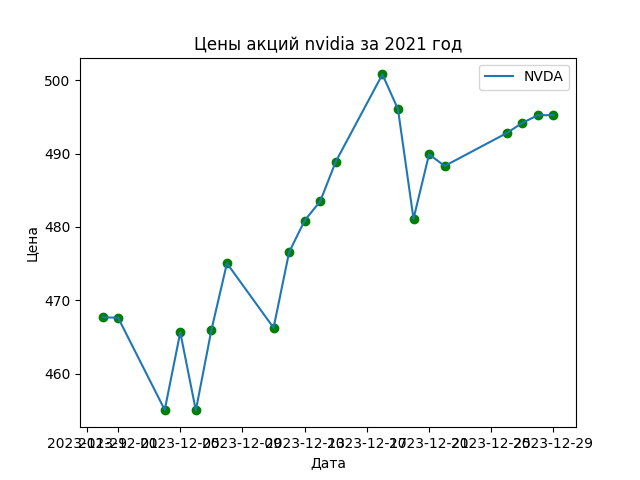
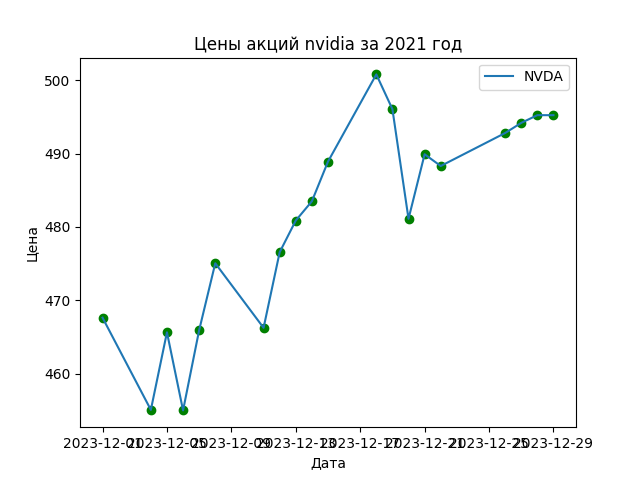
добавил распечатку графика revenue

diff --git a/google_scraper.py b/google_scraper.py
@@ -10,6 +10,8 @@ import pandas as pd
 import matplotlib.pyplot as plt
 import yfinance as yf
 from datetime import datetime, timedelta
+from yahoofinancials import YahooFinancials
+from yahoo_fin import stock_info as si
 
 google_news = GNews()
 DAYS = 30
@@ -17,23 +19,60 @@ DAYS = 30
 def google_scraper():
     worksheet = get_sheet().get_worksheet(0)
     nltk.download("vader_lexicon")
-    articles = news_search()
-    sentiment_analysis_of_articles = get_sentiment_analysis_of_articles(articles)
-    save_sentiment_analysis(worksheet, sentiment_analysis_of_articles)
-    #sentiment_analysis_of_articles = read_sentiment_analysis(worksheet)
-    sentiment_analiisys_per_day = sentiment_analysis_of_articles.groupby('published date')['compound'].mean().reset_index()
+    #articles = news_search()
+    #sentiment_analysis_of_articles = get_sentiment_analysis_of_articles(articles)
+    #save_sentiment_analysis(worksheet, sentiment_analysis_of_articles)
+    sentiment_analysis_of_articles = read_sentiment_analysis(worksheet)
+    sentiment_analiisys_per_day = sentiment_analysis_of_articles.groupby('published date')['compound'].mean().reset_index().sort_values('published date')
     print(sentiment_analiisys_per_day)
     print_stock(sentiment_analiisys_per_day)
+    print_revenue(datetime.now().date() - timedelta(days=365), datetime.now().date())  
 
 def read_sentiment_analysis(worksheet):
     sentiment_analysis = worksheet.get_all_values()
+    # Преобразование списка списков в датафрейм, где первый список - заголовки столбцов
     sentiment_analysis = pd.DataFrame(sentiment_analysis[1:], columns=sentiment_analysis[0])
-    
+    # Преобразование столбца 'published date' в datetime
+    sentiment_analysis['published date'] = pd.to_datetime(sentiment_analysis['published date'])
     # Преобразование данных в столбце 'compound' в числа
     sentiment_analysis['compound'] = pd.to_numeric(sentiment_analysis['compound'].str.replace(',', '.'), errors='coerce')
     
     return sentiment_analysis
 
+def print_revenue(start_date, end_date):
+    ticker = 'NVDA'
+    yahoo_financials = YahooFinancials(ticker)
+
+    income_statement = yahoo_financials.get_financial_stmts('quarterly', 'income')
+    reports = income_statement['incomeStatementHistoryQuarterly'][ticker]
+        
+    analysts_info = si.get_analysts_info(ticker)
+    earnings_estimate = analysts_info['Revenue Estimate']
+    print(earnings_estimate)
+
+
+    dates = []
+    revenues = []
+    for report in reports:
+        for date_str in report:
+            date = datetime.strptime(date_str, '%Y-%m-%d').date()
+            if start_date <= date <= end_date:
+                if 'operatingRevenue' in report[date_str]:  
+                    dates.append(date)
+                    # преобразуем выручку в миллиарды
+                    revenue_billion = report[date_str]['operatingRevenue'] / 1_000_000_000
+                    revenues.append(revenue_billion)
+    print(dates)
+    print([f'{revenue:.2f}B' for revenue in revenues])
+    #очистить значения на графике
+    plt.cla()
+    plt.bar(dates, revenues, color='green', width=20)
+    plt.xticks(dates)  
+    plt.xlabel('Date')
+    plt.ylabel('Revenue (in billions)')
+    plt.title('Quarterly Revenue')
+    plt.savefig('revenue.png')
+        
 def print_stock(sentiment_data):
     # Задаем начальную и конечную дату
     end = datetime.now().date()
@@ -122,10 +161,9 @@ def get_sentiment_analysis_of_articles(articles):
             compound_sum += scores["compound"]
             # Преобразование строки даты и времени в объект datetime
             date_time_obj = datetime.strptime(article['published date'], '%a, %d %b %Y %H:%M:%S %Z')
-            # Форматирование объекта datetime обратно в строку, содержащую только дату
-            date_str = date_time_obj.strftime('%a, %d %b %Y')
-            
-            data.append([date_str, str(article['publisher']), str(article['title']), float(scores["compound"])])
+            # Удаление информации о времени, сохранение только даты
+            date_time_obj = date_time_obj.date()
+            data.append([date_time_obj, str(article['publisher']), str(article['title']), float(scores["compound"])])
         else:   
             continue
     print('Количество статей обработано ' + str(len(articles)))
